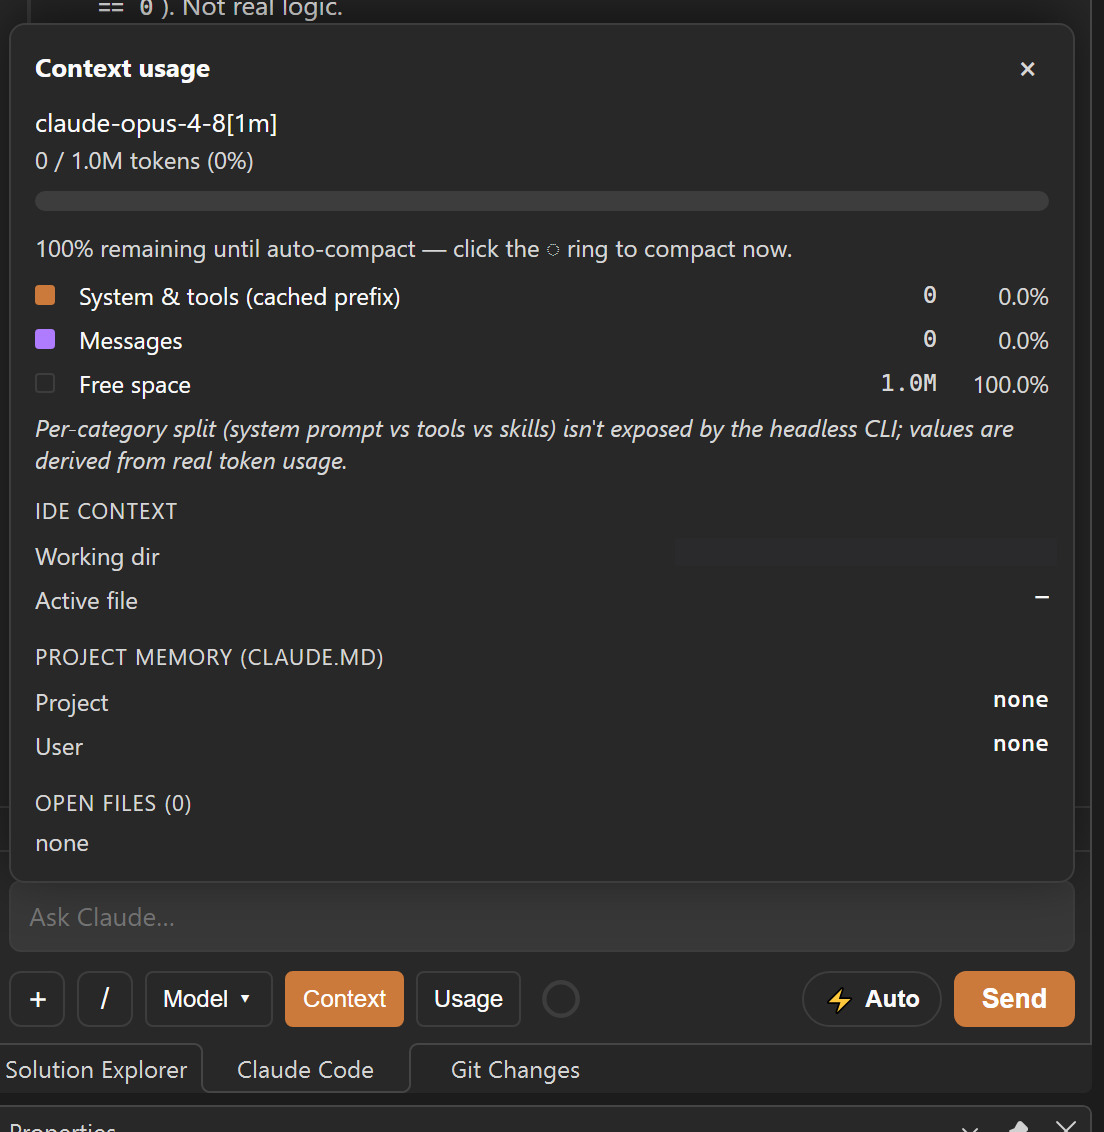
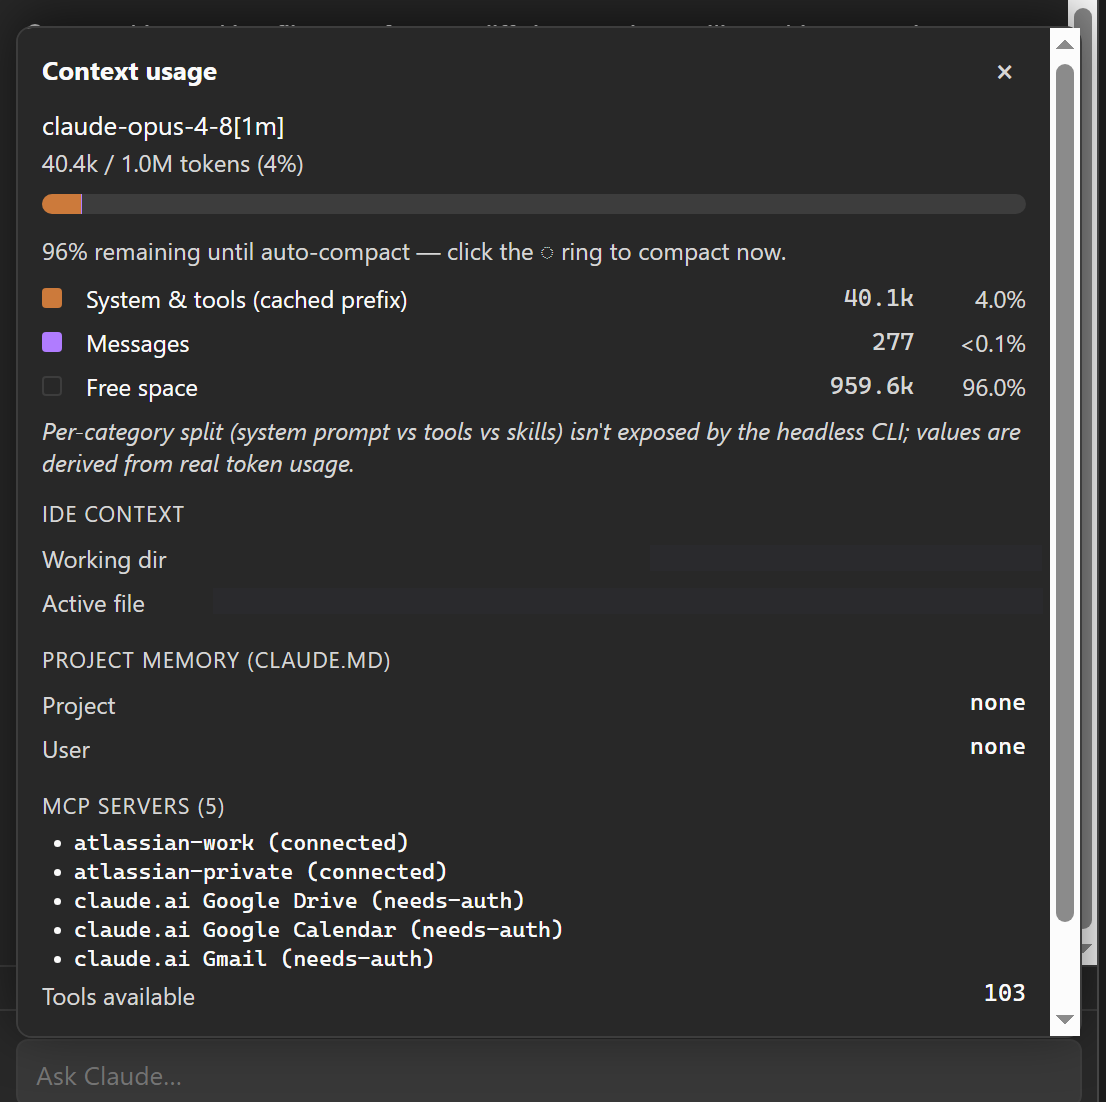
docs: shrink Screenshots section + richer context shot
- Lay out the six feature screenshots in a 2-column HTML table and cap
  the hero/debug images with explicit widths, so the Screenshots
  section renders much smaller on github.com.
- Replace context.png with a live shot (real token usage, MCP server
  health, 103 tools); working-dir and active-file paths redacted.

Changed region(s): [[0.0, 0.0, 1.0, 1.0], [0.7391, 0.8639, 0.8315, 0.8947]]

diff --git a/README.md b/README.md
@@ -18,7 +18,7 @@ to your open solution.
 
 ## Screenshots
 
-![Claude Code chat panel docked in Visual Studio](docs/images/hero.png)
+<img src="docs/images/hero.png" width="600" alt="Claude Code chat panel docked in Visual Studio">
 
 *The Claude Code panel docked next to Solution Explorer — ask, and Claude reads and edits your code, with the model, permission mode, and reasoning effort all in the composer.*
 
@@ -28,33 +28,24 @@ When the debugger is **paused** at a breakpoint or exception, Claude reads the *
 
 > Verified with **C#/.NET**. Other languages Visual Studio can debug (e.g. C / C++) are expected to work but are **not yet tested**.
 
-![Runtime debug banners — paused at a DivideByZeroException](docs/images/debug-exception.png)
+<img src="docs/images/debug-exception.png" width="440" alt="Runtime debug banners — paused at a DivideByZeroException">
 
 ### Inline diffs, slash commands, and full composer control
 
-![Inline red/green diff of an edit](docs/images/inline-diff.png)
-
-*Every edit shows as an inline red/green diff card in the chat, plus an "Open diff" button for the full native VS Before/After window.*
-
-![Slash-command palette](docs/images/slash-palette.png)
-
-*The `/` palette — built-in commands plus your own CLI slash commands.*
-
-![Model and reasoning-effort picker](docs/images/model-effort.png)
-
-*Pick the model (Opus 4.8 / Fable 5 / Sonnet 4.6 / Haiku 4.5, or a custom id) and the per-model reasoning effort.*
-
-![Permission-mode picker](docs/images/permission-mode.png)
-
-*Ask before edits, edit automatically, plan mode, or full auto — plus a thinking-stream toggle.*
-
-![Context-window usage](docs/images/context.png)
-
-*Live context-window breakdown and IDE context (working dir, active file, `CLAUDE.md`, open files).*
-
-![Account and usage limits](docs/images/usage.png)
-
-*Your Claude plan's session and weekly usage, read from the CLI login.*
+<table>
+<tr>
+<td width="50%"><img src="docs/images/inline-diff.png" alt="Inline red/green diff of an edit"><br><sub>Inline red/green diff per edit, plus "Open diff" for the native VS Before/After window.</sub></td>
+<td width="50%"><img src="docs/images/slash-palette.png" alt="Slash-command palette"><br><sub>The <code>/</code> palette — built-in commands plus your own CLI slash commands.</sub></td>
+</tr>
+<tr>
+<td><img src="docs/images/model-effort.png" alt="Model and reasoning-effort picker"><br><sub>Pick the model (Opus 4.8 / Fable 5 / Sonnet 4.6 / Haiku 4.5, or a custom id) and per-model reasoning effort.</sub></td>
+<td><img src="docs/images/permission-mode.png" alt="Permission-mode picker"><br><sub>Ask before edits, edit automatically, plan mode, or full auto — plus a thinking-stream toggle.</sub></td>
+</tr>
+<tr>
+<td><img src="docs/images/context.png" alt="Context-window usage"><br><sub>Live context-window breakdown, IDE context, and MCP server health.</sub></td>
+<td><img src="docs/images/usage.png" alt="Account and usage limits"><br><sub>Your Claude plan's session and weekly usage, read from the CLI login.</sub></td>
+</tr>
+</table>
 
 ---
 
